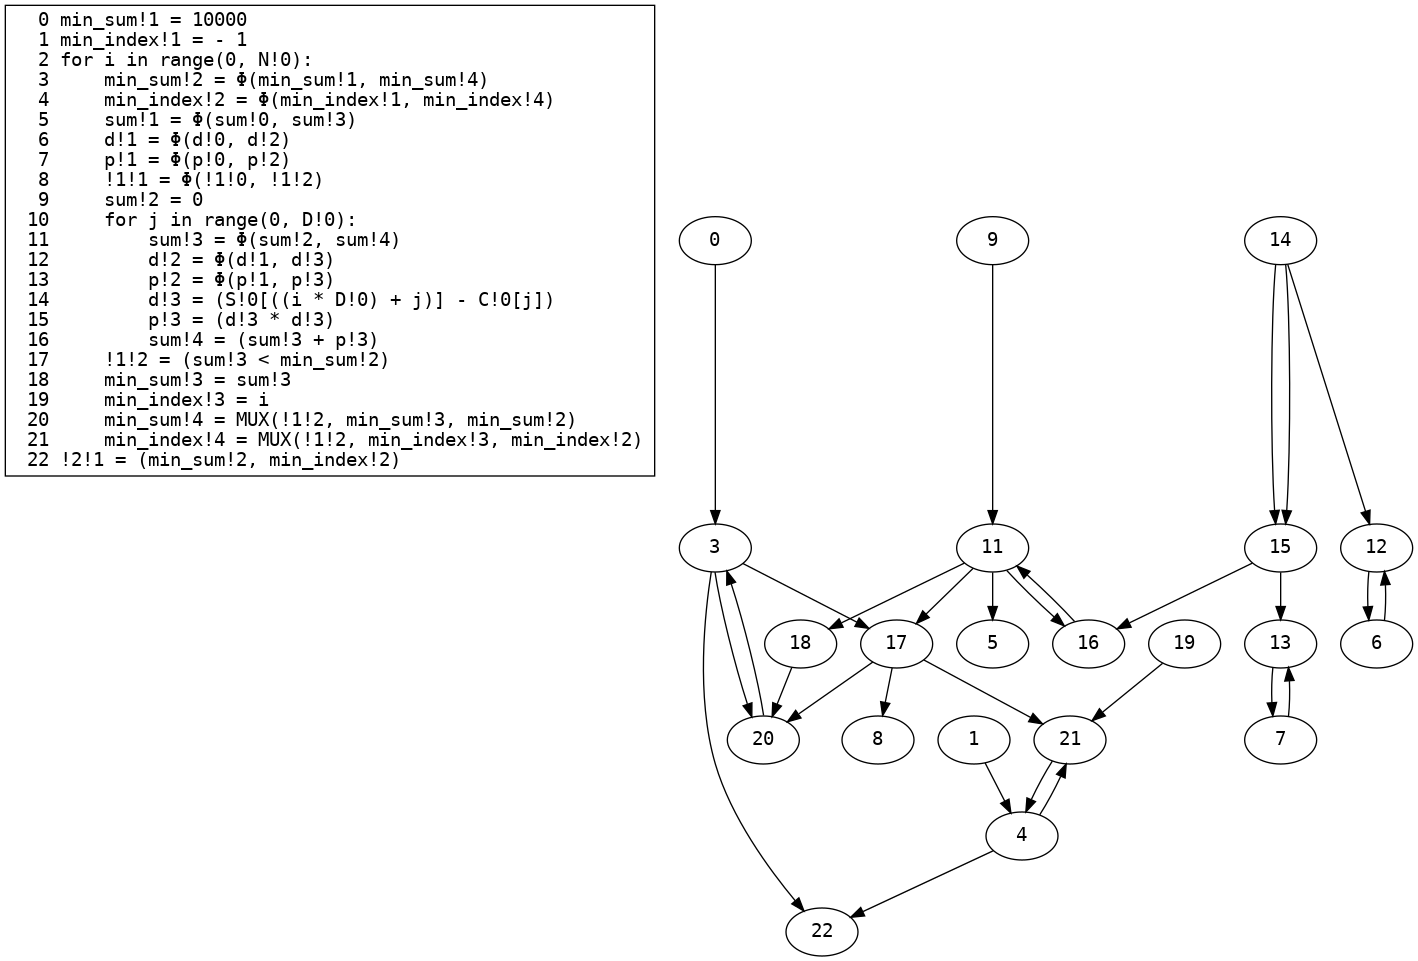
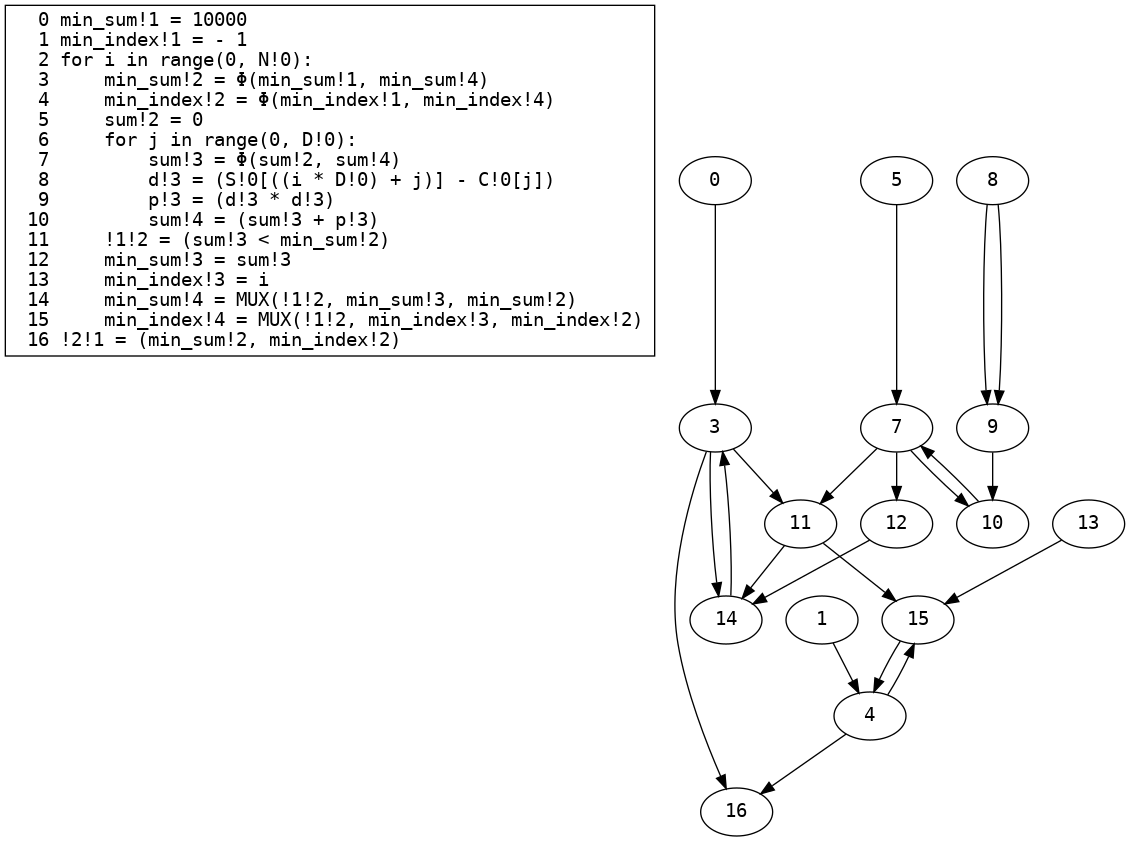
Deploying to gh-pages from  @ 4e59cf6698ed8d5c37c1df550167bb642f7b4ff9 🚀

diff --git a/README.md b/README.md
@@ -51,6 +51,8 @@ def foo(C, D, S, N):
 ![](biometric_ssa.png)
 ### SSA ϕ→MUX
 ![](biometric_ssa_mux.png)
+### Dead code elimination
+![](biometric_dead_code_elim.png)
 ### Linear code with loops
 ```python
 def foo(C, D, S, N):
@@ -59,15 +61,9 @@ def foo(C, D, S, N):
     for i in range(0, N!0):
         min_sum!2 = Φ(min_sum!1, min_sum!4)
         min_index!2 = Φ(min_index!1, min_index!4)
-        sum!1 = Φ(sum!0, sum!3)
-        d!1 = Φ(d!0, d!2)
-        p!1 = Φ(p!0, p!2)
-        !1!1 = Φ(!1!0, !1!2)
         sum!2 = 0
         for j in range(0, D!0):
             sum!3 = Φ(sum!2, sum!4)
-            d!2 = Φ(d!1, d!3)
-            p!2 = Φ(p!1, p!3)
             d!3 = (S!0[((i * D!0) + j)] - C!0[j])
             p!3 = (d!3 * d!3)
             sum!4 = (sum!3 + p!3)
@@ -180,6 +176,8 @@ def foo(D, N, C, C_sqr_sum, two_C, S, S_sqr_sum):
 ![](biometric_fast_ssa.png)
 ### SSA ϕ→MUX
 ![](biometric_fast_ssa_mux.png)
+### Dead code elimination
+![](biometric_fast_dead_code_elim.png)
 ### Linear code with loops
 ```python
 def foo(D, N, C, C_sqr_sum, two_C, S, S_sqr_sum):
@@ -187,18 +185,12 @@ def foo(D, N, C, C_sqr_sum, two_C, S, S_sqr_sum):
     differences!1 = (!1!1 * D!0)
     for i in range(0, N!0):
         differences!2 = Φ(differences!1, differences!3)
-        a_sqr_plus_b_sqr!1 = Φ(a_sqr_plus_b_sqr!0, a_sqr_plus_b_sqr!2)
-        two_a_b!1 = Φ(two_a_b!0, two_a_b!3)
-        tmp!1 = Φ(tmp!0, tmp!2)
-        this_diff!1 = Φ(this_diff!0, this_diff!2)
         min_diff!1 = Φ(min_diff!0, min_diff!3)
         min_index!1 = Φ(min_index!0, min_index!3)
-        !2!1 = Φ(!2!0, !2!2)
         a_sqr_plus_b_sqr!2 = (S_sqr_sum!0[i] + C_sqr_sum!0)
         two_a_b!2 = 0
         for j in range(0, D!0):
             two_a_b!3 = Φ(two_a_b!2, two_a_b!4)
-            tmp!2 = Φ(tmp!1, tmp!3)
             tmp!3 = (S!0[((i * D!0) + j)] * two_C!0[j])
             two_a_b!4 = (two_a_b!3 + tmp!3)
         this_diff!2 = (a_sqr_plus_b_sqr!2 - two_a_b!3)
@@ -208,7 +200,6 @@ def foo(D, N, C, C_sqr_sum, two_C, S, S_sqr_sum):
         for k in range(0, N!0):
             min_diff!3 = Φ(min_diff!2, min_diff!5)
             min_index!3 = Φ(min_index!2, min_index!5)
-            !2!2 = Φ(!2!1, !2!3)
             !2!3 = (differences!3[k] < min_diff!3)
             min_diff!4 = differences!3[k]
             min_index!4 = k
@@ -249,6 +240,8 @@ def foo(x, y):
 ![](chapterfour_figure_12_ssa.png)
 ### SSA ϕ→MUX
 ![](chapterfour_figure_12_ssa_mux.png)
+### Dead code elimination
+![](chapterfour_figure_12_dead_code_elim.png)
 ### Linear code with loops
 ```python
 def foo(x, y):
@@ -259,7 +252,6 @@ def foo(x, y):
     z!2 = 1
     z!4 = MUX(!2!1, z!2, z!3)
     z!5 = MUX(!1!1, z!1, z!4)
-    !2!2 = MUX(!1!1, !2!0, !2!1)
     return z!5
 ```
 ### Dependency graph
@@ -320,21 +312,20 @@ def foo(A, B, N, num_bins):
 ![](histogram_ssa.png)
 ### SSA ϕ→MUX
 ![](histogram_ssa_mux.png)
+### Dead code elimination
+![](histogram_dead_code_elim.png)
 ### Linear code with loops
 ```python
 def foo(A, B, N, num_bins):
     result!1 = []
     for i in range(0, num_bins!0):
         result!2 = Φ(result!1, result!3)
-        !1!1 = Φ(!1!0, !1!2)
         !1!2 = [0]
         result!3 = (result!2 + !1!2)
     for i in range(0, num_bins!0):
         result!4 = Φ(result!2, result!5)
-        !2!1 = Φ(!2!0, !2!2)
         for j in range(0, N!0):
             result!5 = Φ(result!4, result!7)
-            !2!2 = Φ(!2!1, !2!3)
             !2!3 = (A!0[j] == i)
             result!6 = Update(result!5, i, (result!5[i] + B!0[j]))
             result!7 = MUX(!2!3, result!6, result!5)
@@ -375,13 +366,14 @@ def foo(A, B, N):
 ![](inner_product_ssa.png)
 ### SSA ϕ→MUX
 ![](inner_product_ssa_mux.png)
+### Dead code elimination
+![](inner_product_dead_code_elim.png)
 ### Linear code with loops
 ```python
 def foo(A, B, N):
     sum!1 = 0
     for i in range(0, N!0):
         sum!2 = Φ(sum!1, sum!3)
-        temp!1 = Φ(temp!0, temp!2)
         temp!2 = (A!0[i] * B!0[i])
         sum!3 = (sum!2 + temp!2)
     return sum!2
@@ -429,31 +421,21 @@ def foo(A, SA, B, SB):
 ![](psi_ssa.png)
 ### SSA ϕ→MUX
 ![](psi_ssa_mux.png)
+### Dead code elimination
+![](psi_dead_code_elim.png)
 ### Linear code with loops
 ```python
 def foo(A, SA, B, SB):
     result!1 = []
     for i in range(0, SA!0):
         result!2 = Φ(result!1, result!3)
-        !1!1 = Φ(!1!0, !1!2)
-        !2!1 = Φ(!2!0, !2!2)
-        !3!1 = Φ(!3!0, !3!2)
-        !4!1 = Φ(!4!0, !4!2)
         for j in range(0, SB!0):
             result!3 = Φ(result!2, result!5)
-            !1!2 = Φ(!1!1, !1!3)
-            !2!2 = Φ(!2!1, !2!4)
-            !3!2 = Φ(!3!1, !3!4)
-            !4!2 = Φ(!4!1, !4!4)
             !1!3 = (A!0[i] == B!0[j])
-            !2!3 = A!0[i]
             !3!3 = A!0[i]
             !4!3 = [!3!3]
             result!4 = (result!3 + !4!3)
             result!5 = MUX(!1!3, result!4, result!3)
-            !2!4 = MUX(!1!3, !2!3, !2!2)
-            !3!4 = MUX(!1!3, !3!3, !3!2)
-            !4!4 = MUX(!1!3, !4!3, !4!2)
     return result!2
 ```
 ### Dependency graph
